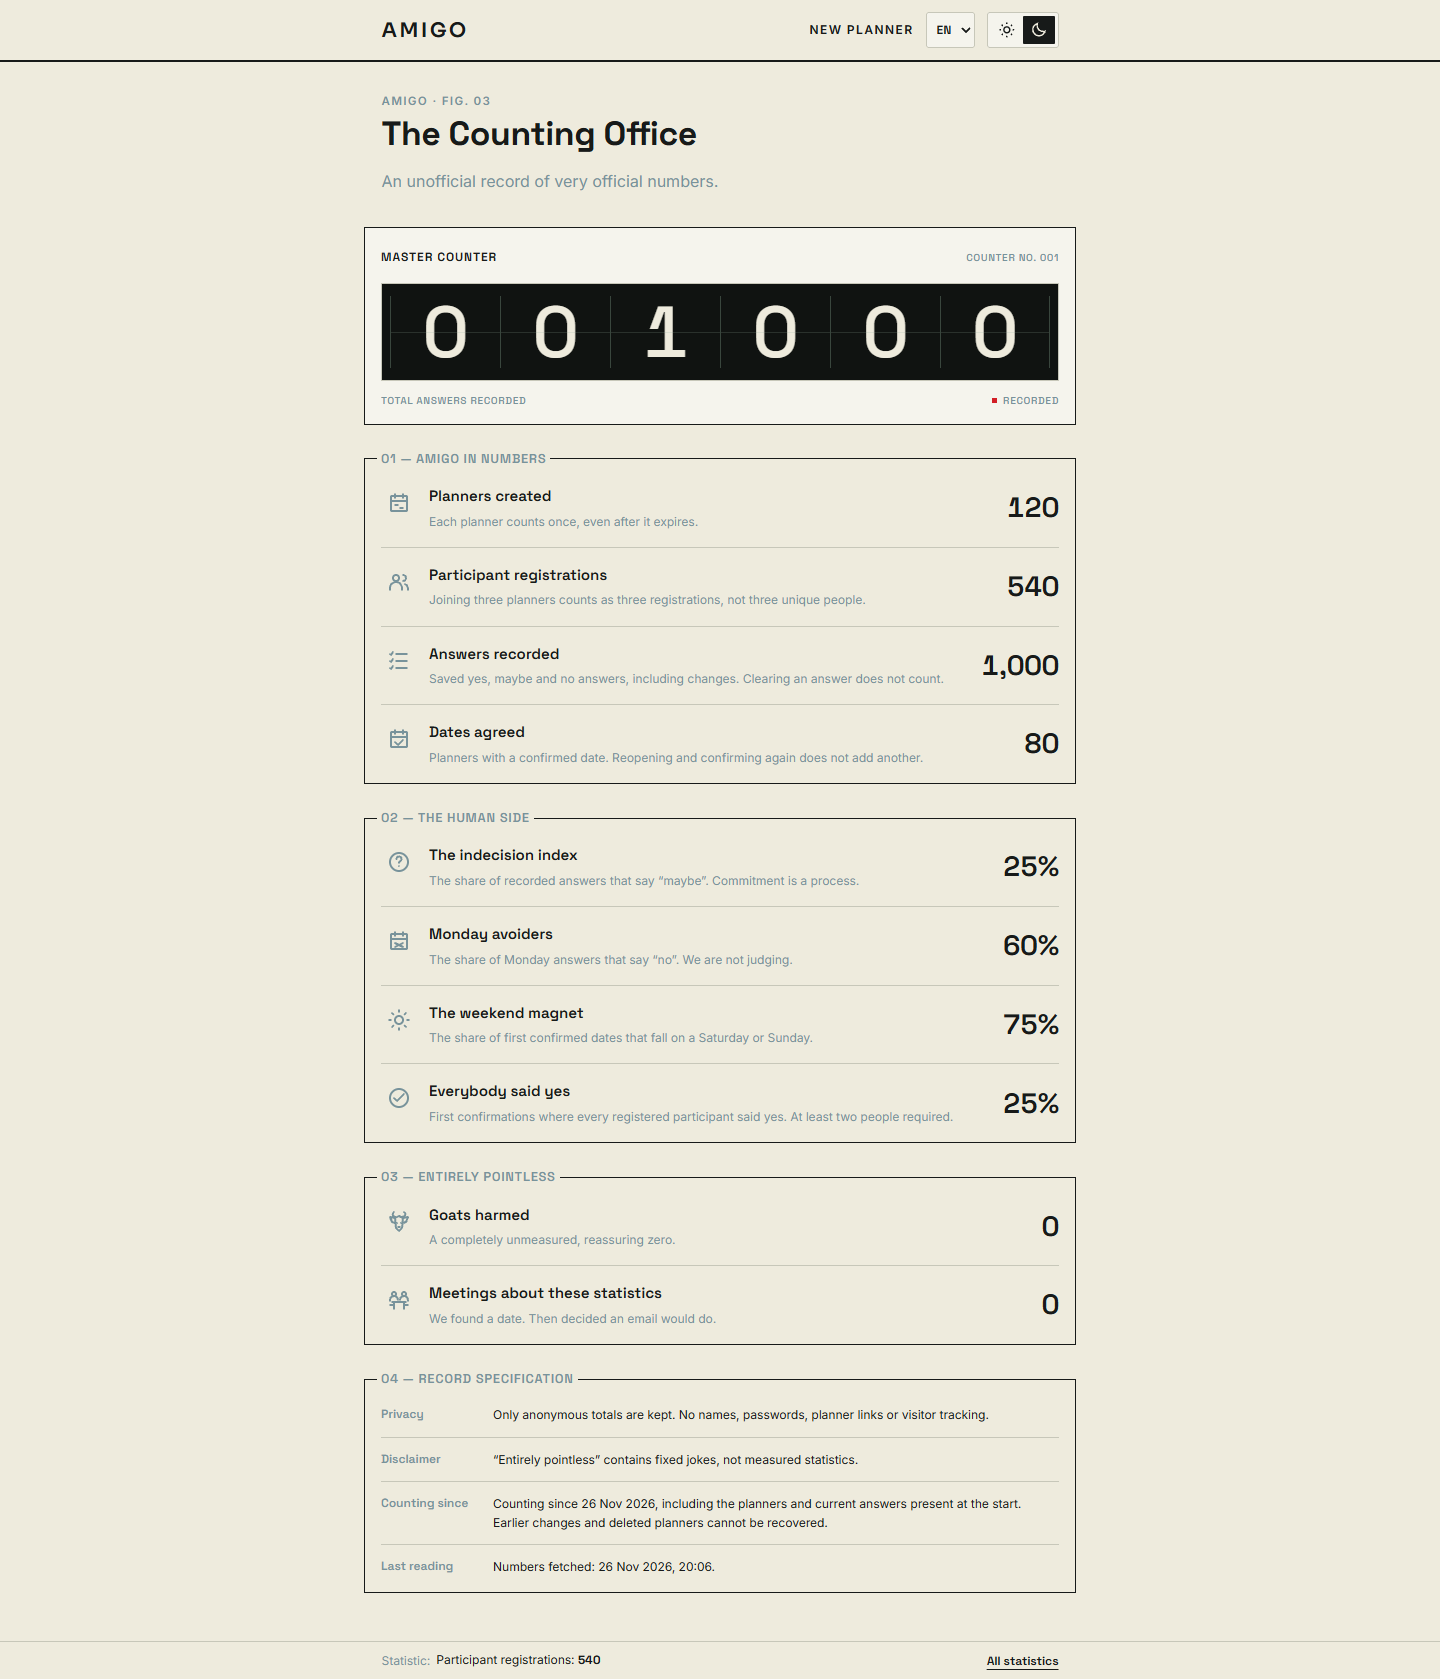
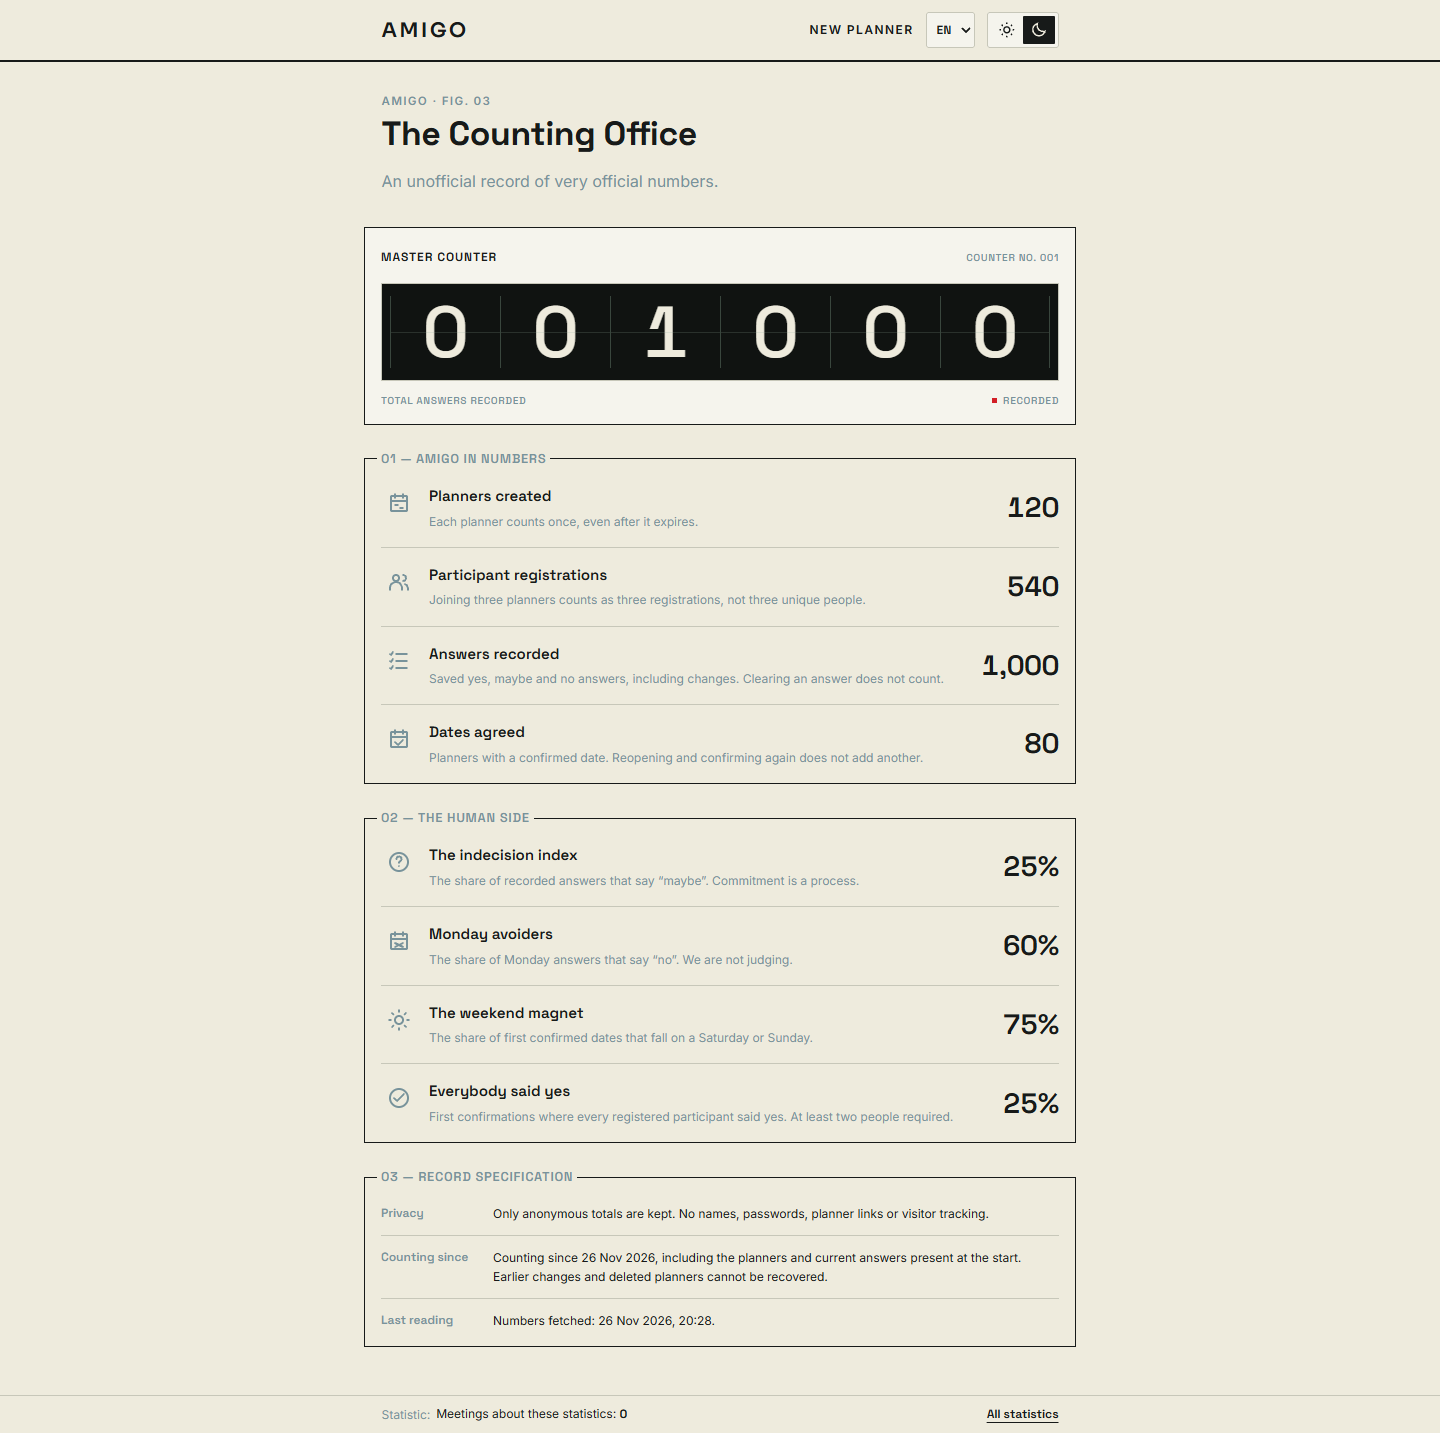
Statistics overhaul 5

diff --git a/src/i18n/nl-BE.js b/src/i18n/nl-BE.js
@@ -1,11 +1,10 @@
 export default {
   'statistics.documentTitle': 'AMIGO · FIG. 03 — The Counting Office',
-  'statistics.eyebrow': 'AMIGO · FIG. 03',
+  'statistics.eyebrow': 'AMIGO / STATISTICS',
   'statistics.title': 'The Counting Office',
   'statistics.intro': 'Een onofficieel register van bijzonder officiële cijfers.',
   'statistics.totals': 'AMIGO in cijfers',
   'statistics.human': 'De menselijke kant',
-  'statistics.nonsense': 'Volstrekt nutteloos',
   'statistics.master': 'Hoofdteller',
   'statistics.counterNumber': 'Teller nr. 001',
   'statistics.totalAnswers': 'Totaal verwerkte antwoorden',
@@ -14,7 +13,6 @@ export default {
   'statistics.state.unavailable': 'Niet beschikbaar',
   'statistics.nameplate': 'Registerspecificatie',
   'statistics.notePrivacy': 'Privacy',
-  'statistics.noteHumour': 'Voorbehoud',
   'statistics.noteBaseline': 'Meetstart',
   'statistics.noteFetched': 'Laatste uitlezing',
   'statistics.planners.label': 'Planners aangemaakt',
@@ -34,14 +32,11 @@ export default {
   'statistics.agreement.label': 'Iedereen akkoord',
   'statistics.agreement.description': 'Eerste bevestigingen waarbij elke ingeschreven deelnemer ja zei. Minimaal twee personen vereist.',
   'statistics.goats.label': 'Geiten geschaad',
-  'statistics.goats.description': 'Een volledig ongemeten, geruststellende nul.',
   'statistics.meetings.label': 'Vergaderingen over deze statistieken',
-  'statistics.meetings.description': 'We vonden een datum. Daarna bleek een mailtje voldoende.',
   'statistics.collecting': 'Nog even verzamelen',
   'statistics.loading': 'Cijfers ophalen…',
-  'statistics.error': 'De actuele cijfers zijn even niet beschikbaar. De grapcijfers hieronder zijn geen metingen.',
+  'statistics.error': 'De actuele cijfers zijn even niet beschikbaar. Probeer het opnieuw.',
   'statistics.retry': 'Opnieuw proberen',
-  'statistics.jokeNote': '“Volstrekt nutteloos” bevat vaste grappen, geen gemeten statistieken.',
   'statistics.privacy': 'We bewaren alleen anonieme totalen. Geen namen, wachtwoorden, plannerlinks of bezoekersmeting.',
   'statistics.baseline': 'We tellen sinds {date}, inclusief de planners en huidige antwoorden die bij de start aanwezig waren. Eerdere wijzigingen en verwijderde planners kunnen we niet terughalen.',
   'statistics.fetchedAt': 'Cijfers opgehaald: {time}.',

diff --git a/src/i18n/en-GB.js b/src/i18n/en-GB.js
@@ -5,7 +5,6 @@ export default {
   'statistics.intro': 'An unofficial record of very official numbers.',
   'statistics.totals': 'AMIGO in numbers',
   'statistics.human': 'The human side',
-  'statistics.nonsense': 'Entirely pointless',
   'statistics.master': 'Master counter',
   'statistics.counterNumber': 'Counter no. 001',
   'statistics.totalAnswers': 'Total answers recorded',
@@ -14,7 +13,6 @@ export default {
   'statistics.state.unavailable': 'Unavailable',
   'statistics.nameplate': 'Record specification',
   'statistics.notePrivacy': 'Privacy',
-  'statistics.noteHumour': 'Disclaimer',
   'statistics.noteBaseline': 'Counting since',
   'statistics.noteFetched': 'Last reading',
   'statistics.planners.label': 'Planners created',
@@ -34,14 +32,11 @@ export default {
   'statistics.agreement.label': 'Everybody said yes',
   'statistics.agreement.description': 'First confirmations where every registered participant said yes. At least two people required.',
   'statistics.goats.label': 'Goats harmed',
-  'statistics.goats.description': 'A completely unmeasured, reassuring zero.',
   'statistics.meetings.label': 'Meetings about these statistics',
-  'statistics.meetings.description': 'We found a date. Then decided an email would do.',
   'statistics.collecting': 'Still collecting',
   'statistics.loading': 'Fetching the numbers…',
-  'statistics.error': 'The live numbers are unavailable right now. The joke figures below are not measurements.',
+  'statistics.error': 'The live numbers are unavailable right now. Please try again.',
   'statistics.retry': 'Try again',
-  'statistics.jokeNote': '“Entirely pointless” contains fixed jokes, not measured statistics.',
   'statistics.privacy': 'Only anonymous totals are kept. No names, passwords, planner links or visitor tracking.',
   'statistics.baseline': 'Counting since {date}, including the planners and current answers present at the start. Earlier changes and deleted planners cannot be recovered.',
   'statistics.fetchedAt': 'Numbers fetched: {time}.',

diff --git a/src/components/StatisticsPage.jsx b/src/components/StatisticsPage.jsx
@@ -1,7 +1,7 @@
 import React from 'react';
 import { getLocale, t } from '../i18n/index.js';
 import { loadStatistics, useStatistics } from '../data/statistics.js';
-import { STATISTIC_TOTALS, STATISTIC_RATIOS, STATISTIC_JOKES, statisticMeasurement } from '../utils/statistics.js';
+import { STATISTIC_TOTALS, STATISTIC_RATIOS, statisticMeasurement } from '../utils/statistics.js';
 import { MasterCounter, MeasurementStatus } from './StatisticsInstruments.jsx';
 import StatisticIcon from './StatisticIcon.jsx';
 
@@ -45,12 +45,10 @@ export default function StatisticsPage() {
       <div className="form statistics-sections" aria-busy={status === 'loading' || status === 'idle'}>
         <StatisticGroup title={t('statistics.totals')} number="01" items={STATISTIC_TOTALS} data={data} status={status} />
         <StatisticGroup title={t('statistics.human')} number="02" items={STATISTIC_RATIOS} data={data} status={status} />
-        <StatisticGroup title={t('statistics.nonsense')} number="03" items={STATISTIC_JOKES} data={data} status={status} />
         <fieldset className="office-nameplate">
-          <legend>04 — {t('statistics.nameplate')}</legend>
+          <legend>03 — {t('statistics.nameplate')}</legend>
           <dl>
             <div><dt>{t('statistics.notePrivacy')}</dt><dd>{t('statistics.privacy')}</dd></div>
-            <div><dt>{t('statistics.noteHumour')}</dt><dd>{t('statistics.jokeNote')}</dd></div>
             <div><dt>{t('statistics.noteBaseline')}</dt><dd>{data ? t('statistics.baseline', {
               date: new Intl.DateTimeFormat(getLocale(), { dateStyle: 'medium', timeZone: 'Europe/Amsterdam' }).format(new Date(data.startedAt)),
             }) : '—'}</dd></div>

diff --git a/src/components/StatisticIcon.jsx b/src/components/StatisticIcon.jsx
@@ -9,8 +9,6 @@ const icons = {
   monday: <><rect x="4" y="5" width="16" height="15" rx="1" /><path d="M8 3v4m8-4v4M4 10h16m-12 4 8 4m0-4-8 4" /></>,
   weekend: <><circle cx="12" cy="12" r="4" /><path d="M12 2v2m0 16v2M2 12h2m16 0h2M5 5l1.5 1.5m11 11L19 19M5 19l1.5-1.5m11-11L19 5" /></>,
   agreement: <><circle cx="12" cy="12" r="9" /><path d="m7 12 3 3 7-7" /></>,
-  goats: <><path d="M9 7C5 7 5 3 7 2m8 5c4 0 4-4 2-5M8 8 3 7l2 5 3 1m8-5 5-1-2 5-3 1M8 8l1 10 3 3 3-3 1-10-4-2-4 2Zm2 5h.1m3.8 0h.1M11 17h2" /></>,
-  meetings: <><circle cx="7" cy="6" r="2" /><circle cx="17" cy="6" r="2" /><path d="M3 13v-1a4 4 0 0 1 8 0m2 0a4 4 0 0 1 8 0v1M5 14h14M7 14v7m10-7v7M3 17h3m12 0h3" /></>,
 };
 
 export default function StatisticIcon({ id }) {

diff --git a/README.md b/README.md
@@ -65,7 +65,7 @@ Gebruik de gedeelde datumfuncties en `formatNumber`, `formatCurrency` en `parseN
 
 `?page=statistics` toont anonieme totalen in dezelfde huisstijl, in EN/NL en beide thema's. De compacte footer toont “Statistiek: …” met daarnaast “Alle statistieken”, zonder pauzeknop. Bij korte pagina's staat hij onderaan het scherm; langere inhoud duwt hem naar beneden in de normale paginastroom. De footer begint met een willekeurige statistiek en wisselt elke zeven seconden met een korte schuifanimatie. Hover, toetsenbordfocus en een verborgen tabblad stoppen het wisselen. Bij verminderde beweging blijft één willekeurig cijfer staan. De volledige statistiekenpagina schuift niet automatisch.
 
-De pagina heet **AMIGO · FIG. 03 — The Counting Office** en gebruikt dezelfde achtergrond, semantische themakleuren, veldkaders en segmenttitels als de planner. Compacte rijen tonen een passend SVG-lijnicoon, titel, uitleg en waarde, zoals een achievements-overzicht. Er zijn geen genummerde tegels, emoji's, “Gemeten”-tags, aparte meetinstrumenten of extra achtergrondvlak. Alleen de mechanische hoofdteller behoudt zijn fysieke telvensters. Die rolt eenmaal na de eerste succesvolle uitlezing (maximaal 1,2 seconde) en toont bij verminderde beweging direct de eindstand; de gewone tekstwaarde blijft toegankelijk. De bestaande drempel van tien blijft intern behouden. Daaronder verschijnt alleen “Nog even verzamelen”, zonder benodigd aantal, voortgangsbalk of percentage. De privacy- en meetinformatie staat in segment 04. Dit herontwerp verandert geen API, database of statistiekdefinitie en vereist geen extra migratie.
+De pagina heet **AMIGO · FIG. 03 — The Counting Office** en gebruikt dezelfde achtergrond, semantische themakleuren, veldkaders en segmenttitels als de planner. Compacte rijen tonen een passend SVG-lijnicoon, titel, uitleg en waarde, zoals een achievements-overzicht. Er zijn geen genummerde tegels, emoji's, “Gemeten”-tags, aparte meetinstrumenten of extra achtergrondvlak. Alleen de mechanische hoofdteller behoudt zijn fysieke telvensters. Die rolt eenmaal na de eerste succesvolle uitlezing (maximaal 1,2 seconde) en toont bij verminderde beweging direct de eindstand; de gewone tekstwaarde blijft toegankelijk. De bestaande drempel van tien blijft intern behouden. Daaronder verschijnt alleen “Nog even verzamelen”, zonder benodigd aantal, voortgangsbalk of percentage. De pagina toont alleen echte cijfers; de grapcijfers draaien uitsluitend mee in de footer. De privacy- en meetinformatie staat in segment 03. Dit herontwerp verandert geen API, database of statistiekdefinitie en vereist geen extra migratie.
 
 `node tests/statistics-browser.mjs --screenshots` vernieuwt de [desktopweergave in donker thema](docs/counting-office/dark-1440.png), [desktopweergave in licht thema](docs/counting-office/light-1440.png), [mobiele weergave in donker thema](docs/counting-office/dark-375.png) en [mobiele weergave in licht thema](docs/counting-office/light-375.png). Deze afbeeldingen gebruiken uitsluitend lokale testcijfers. De test controleert ook de gedeelde plannerkleuren en segmentopmaak, eenmalige telleranimatie, verminderde beweging, 9/10-waarnemingen, een exacte nulstand en grote getallen op 375 px.
 
@@ -73,7 +73,7 @@ Voer vóór publicatie **`supabase/migrations/202611260002_statistics.sql`** uit
 
 Planners tellen eenmaal; inschrijvingen tellen per aanmaak van een deelnemer, ook bij opnieuw inschakelen na verwijdering. Ja/misschien/nee-antwoorden en echte wijzigingen tellen als verwerkt antwoord; ongewijzigde updates, wissen, mislukte transacties en herhaalde opdrachten tellen niet extra. Alleen de eerste einddatumbevestiging per planner telt mee. Heropenen wijzigt de historische cijfers niet. Voor de beginstand geldt de momenteel gekozen datum als bevestiging: eerdere keuzes of verwijderde gegevens zijn niet te reconstrueren.
 
-De twijfel- en maandagpercentages gebruiken verwerkte antwoorden; weekend en unanimiteit gebruiken eerste bevestigingen. Unanimiteit vereist minimaal twee ingeschreven deelnemers die allemaal ja zeggen op die datum. Percentages verschijnen vanaf tien relevante waarnemingen. De vaste nulwaarden onder “Volstrekt nutteloos” zijn uitdrukkelijk grappen, geen metingen. Bij een fout worden echte cijfers niet vervangen door nullen; de pagina heeft een knop om opnieuw op te halen. Pagina en footer delen één aanvraag per bezoek, zonder polling of blijvende browsercache.
+De twijfel- en maandagpercentages gebruiken verwerkte antwoorden; weekend en unanimiteit gebruiken eerste bevestigingen. Unanimiteit vereist minimaal twee ingeschreven deelnemers die allemaal ja zeggen op die datum. Percentages verschijnen vanaf tien relevante waarnemingen. De vaste nulwaarden over geiten en vergaderingen zijn uitdrukkelijk grappen, geen metingen, en verschijnen alleen in de wisselende footer. Bij een fout worden echte cijfers niet vervangen door nullen; de pagina heeft een knop om opnieuw op te halen. Pagina en footer delen één aanvraag per bezoek, zonder polling of blijvende browsercache.
 
 `node --test tests/statistics.test.mjs` controleert notatie, noemers en minimumaantallen. `node tests/statistics-browser.mjs` controleert de echte HTTP-client tegen een lokale testserver, alle rotatie-/pauzecondities, EN/NL, thema's, schermbreedtes, navigatie en foutafhandeling. `node tests/planner-sql-local.mjs` controleert ook de beginstand en `supabase/tests/statistics.sql` in een tijdelijke PostgreSQL-database; er wordt geen live database gewijzigd.
 
